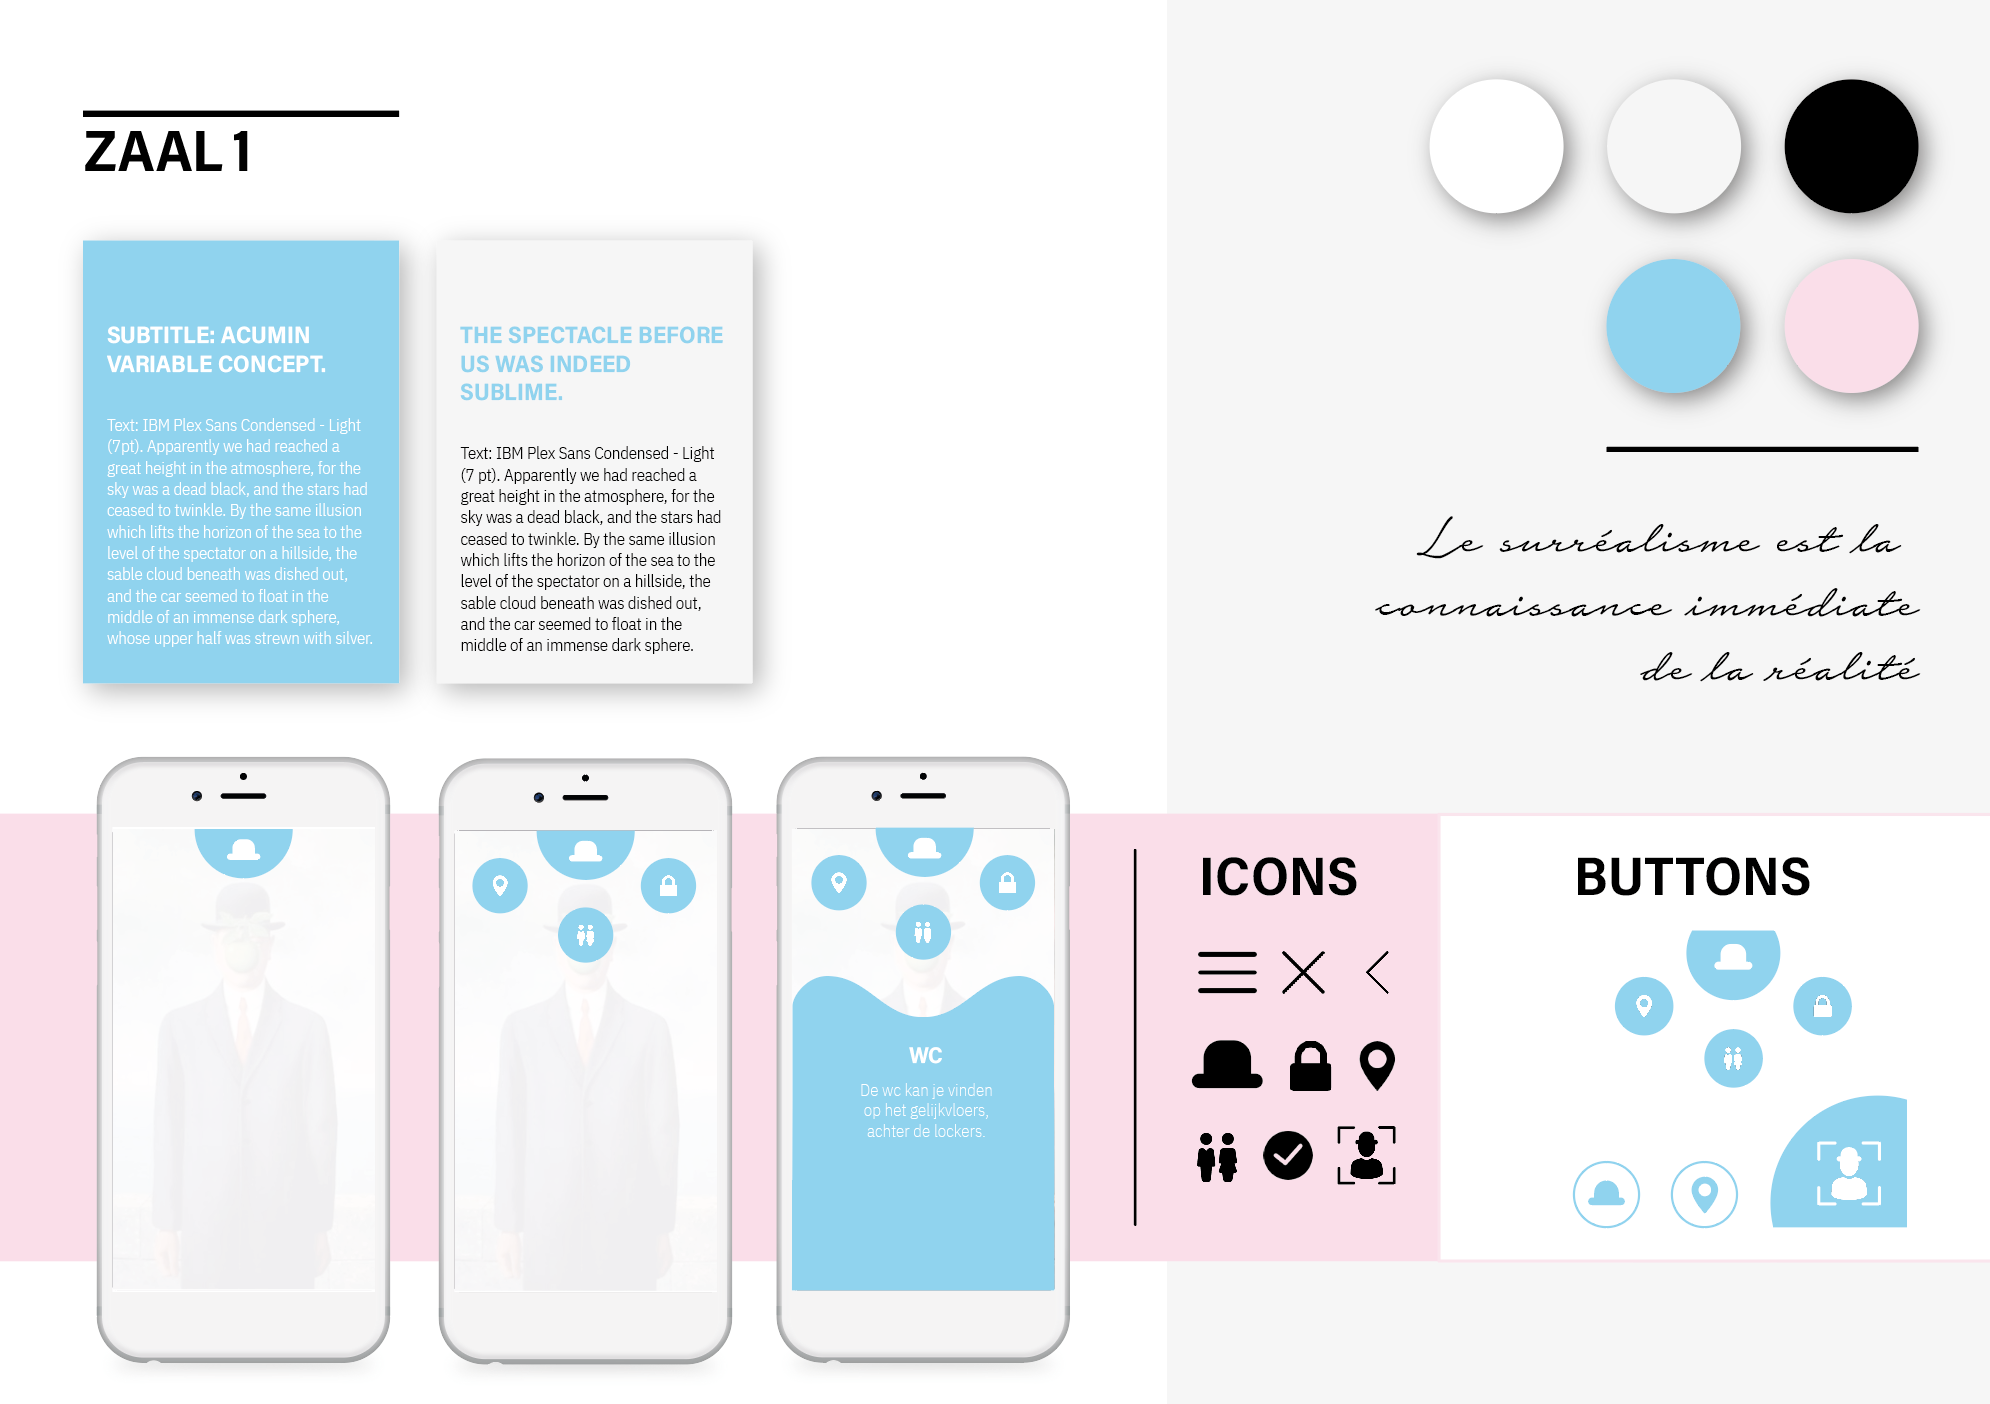
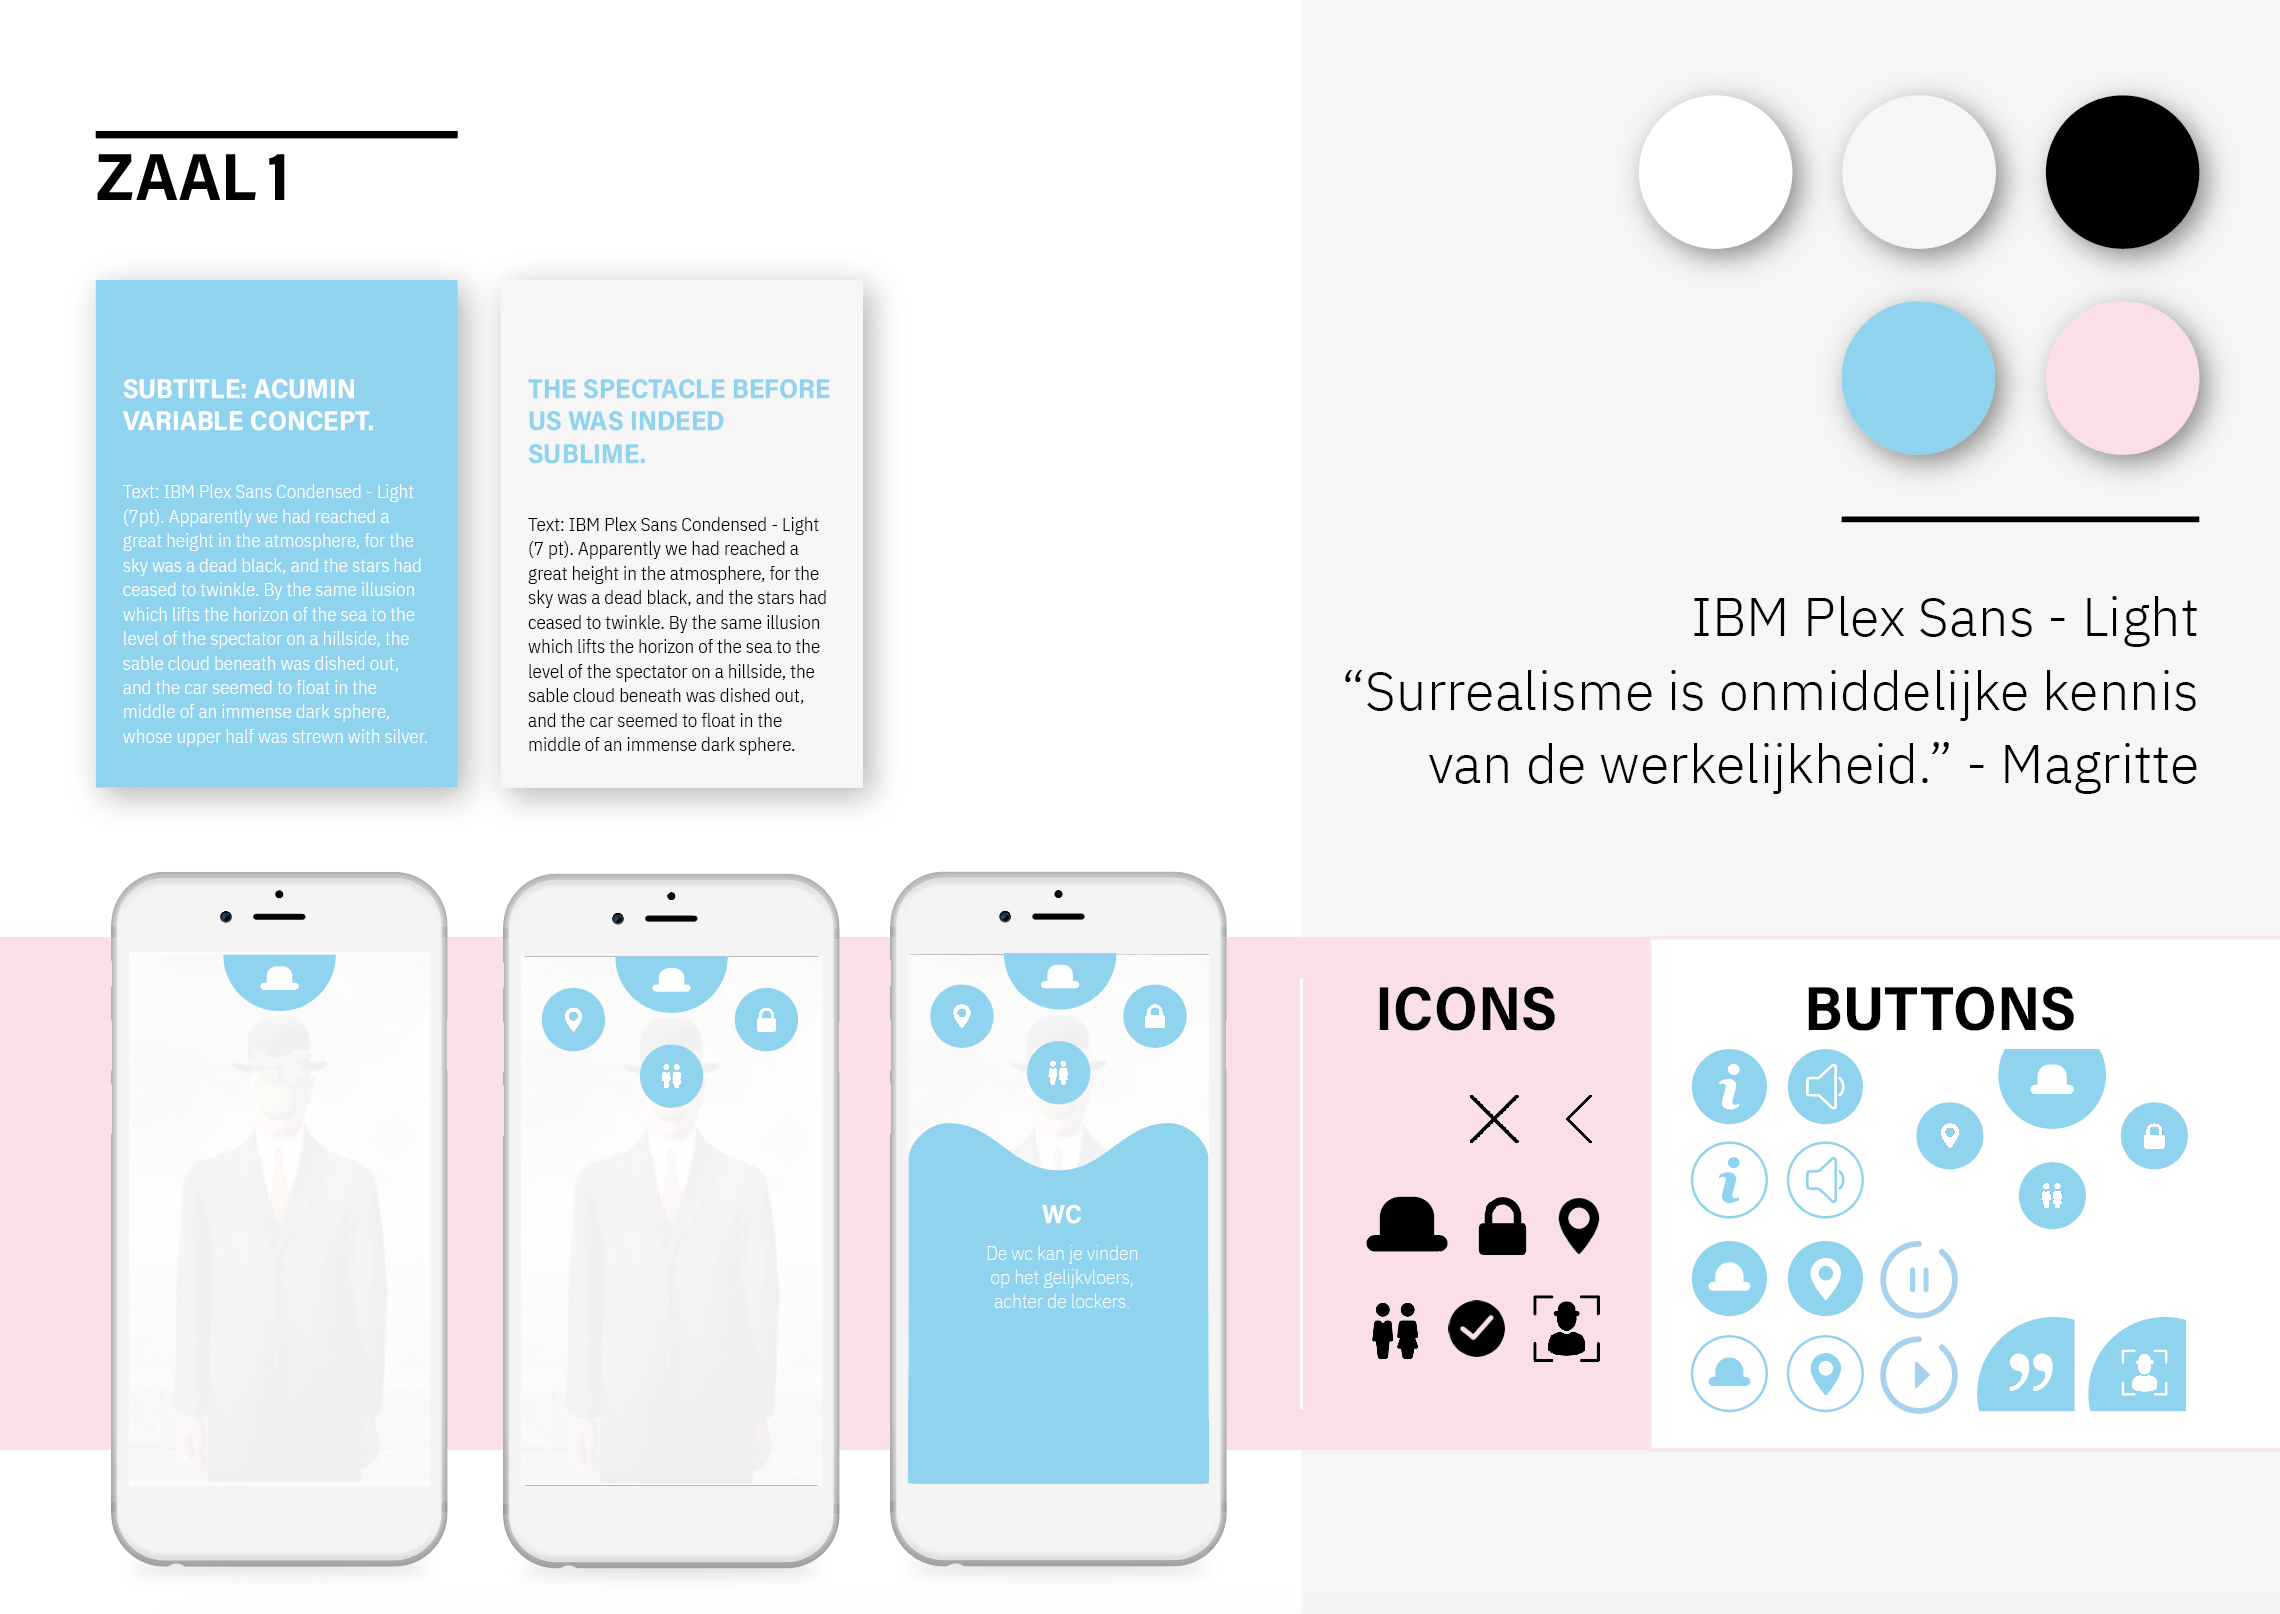
finale

diff --git a/docs/_sass/ui-style-guide/_main.scss b/docs/_sass/ui-style-guide/_main.scss
@@ -1,0 +1,169 @@
+body {
+    font-family: IBM Plex Sans, sans serif;
+    color: #a4d2ee;
+}
+
+/* Typografie */
+.IBM {
+    font-family: IBM Plex Sans;
+    font-size: 30px;
+    font-weight: bold;
+    color: white;
+}
+
+.IBM-bold {
+    font-family: IBM Plex Sans;
+    font-weight: bold;
+}
+
+.IBM-regular {
+    font-family: IBM Plex Sans;
+}
+.IBM-light {
+    font-family: IBM Plex Sans;
+    font-weight: lighter;
+}
+/* tekst kleur */
+.t-blauw {
+    color: #a4d2ee;
+}
+.t-wit {
+    color: white;
+}
+
+/* gekleurde div */
+.blauw {
+    background-color: #a4d2ee;
+    padding: 20px;
+    width: 25%;
+    box-shadow: 5px 5px 20px 0px grey;
+    float: left;
+}
+
+.grijs {
+    background-color: #f6f6f6;
+    padding: 20px;
+    width: 25%;
+    box-shadow: 5px 5px 20px 0px grey;
+    float: left;
+    margin-right: 20px;
+}
+/* kleuren cirkels */
+.c-blauw {
+    height: 200px;
+    width: 200px;
+    background-color: #a4d2ee;
+    border-radius: 100%;
+    box-shadow: 5px 5px 20px 0px grey;
+    float: left;
+    margin-right: 20px;
+}
+
+.c-grijs {
+    height: 200px;
+    width: 200px;
+    background-color: #f6f6f6;
+    border-radius: 100%;
+    box-shadow: 5px 5px 20px 0px grey;
+    float: left;
+    margin-right: 20px;
+}
+
+.c-roze {
+    height: 200px;
+    width: 200px;
+    background-color: #f3dde9;
+    border-radius: 100%;
+    box-shadow: 5px 5px 20px 0px grey;
+    float: left;
+    margin-right: 20px;
+}
+
+.c-wit {
+    height: 200px;
+    width: 200px;
+    background-color: white;
+    border-radius: 100%;
+    box-shadow: 5px 5px 20px 0px grey;
+    float: left;
+    margin-right: 20px;
+}
+
+.c-zwart {
+    height: 200px;
+    width: 200px;
+    background-color: black;
+    border-radius: 100%;
+    box-shadow: 5px 5px 20px 0px grey;
+    float: left;
+    margin-right: 20px;
+}
+
+/* Marges */
+.ml {
+    margin-left: 50px;
+    margin-right: 20px;
+}
+
+/* Knoppen */
+.button {
+    width: 80px;
+    height: 80px;
+    margin: none;
+}
+
+.button-2 {
+    width: 80px;
+    height: 80px;
+    margin-right: 20px;
+}
+
+/* Formulieren */
+.form {
+    width: 500px;
+    margin-left: 50px;
+}
+input {
+    font-family: IBM Plex Sans, sans serif;
+    font-size: 20px;
+    width: 500px;
+    height: 50px;
+    padding: 0px 15px 0px 15px; 
+    background: white;
+    outline: none;
+    color: #a4d2ee;
+    border: solid 3px #a4d2ee;
+    margin-top: 10px;
+}
+input:hover {
+    background: #a4d2ee;
+    color: white;
+}
+textarea {
+    font-size: 20px;
+    width: 500px;
+    max-width: 500px;
+    height: 110px;
+    max-height: 600px;
+    padding: 15px;
+    background: transparent;
+    color: #a4d2ee;
+    margin-top: 10px;
+    border: solid 3px #a4d2ee;
+}
+textarea:hover {
+    background: #a4d2ee;
+    color: white;
+}
+.submit {
+    font-family: IBM Plex Sans, sans serif;
+    font-weight: bold;
+    font-size: 20px;
+    width: 200px;
+    margin: 0px 0px 0px 0px;
+    background-color: #a4d2ee;
+    color: white;
+}
+.submit:hover {
+    color: white;
+}

diff --git a/docs/_sass/_bootstrap-variables.scss b/docs/_sass/_bootstrap-variables.scss
@@ -17,8 +17,7 @@ $primary: $cyan;
 //
 // Font, line-height, and color for body text, headings, and more.
 
+@import url('https://fonts.googleapis.com/css?family=IBM+Plex+Sans');
 
-@import url('https://fonts.googleapis.com/css?family=Oswald');
-@import url('https://fonts.googleapis.com/css?family=Oswald|Roboto');
 
-$font-family-base: Roboto, sans-serif;
+$font-family-base: 'IBM Plex Sans', sans-serif;

diff --git a/docs/_sass/production/_main.scss b/docs/_sass/production/_main.scss
@@ -14,3 +14,6 @@
     width: 100px;
     border-radius: 10%;
 }
+
+
+

diff --git a/docs/pages/3__design/5-1-0__ui-style-guide__typografie.md b/docs/pages/3__design/5-1-0__ui-style-guide__typografie.md
@@ -6,3 +6,25 @@ published: true
 # ─────────────────────
 title: Typografie
 ---
+
+
+
+<div class="grijs ml">
+<p class="ml IBM t-blauw">TITLE: IBM PLEX SANS</p>
+<p class="ml IBM-bold">SUBTITLE: Bold</p>
+<p class="ml IBM-regular">Medium</p>
+<p class="ml IBM-light">
+Light voor doorlopende tekst:
+Apparently we had reached a great height in the atmosphere, for the sky was a dead black, and the stars had ceased to twinkle. By the same illusion which lifts the horizon of the sea to the level of the spectator on a hillside, the sable cloud beneath was dished out, and the car seemed to float in the middle of an immense dark sphere, whose upper half was strewn with silver.
+</p>
+</div>
+
+<div class="blauw">
+<p class="ml IBM t-wit">TITLE: IBM PLEX SANS</p>
+<p class="ml IBM-bold t-wit">SUBTITLE: Bold</p>
+<p class="ml IBM-regular t-wit">Medium</p>
+<p class="ml IBM-light t-wit">
+Light voor doorlopende tekst:
+Apparently we had reached a great height in the atmosphere, for the sky was a dead black, and the stars had ceased to twinkle. By the same illusion which lifts the horizon of the sea to the level of the spectator on a hillside, the sable cloud beneath was dished out, and the car seemed to float in the middle of an immense dark sphere, whose upper half was strewn with silver.
+</p>
+</div>

diff --git a/docs/pages/3__design/5-1-0__ui-style-guide__knoppen.md b/docs/pages/3__design/5-1-0__ui-style-guide__knoppen.md
@@ -1,0 +1,24 @@
+---
+layout   : ui-style-guide
+permalink: design/ui-style-guide/knoppen/
+published: true
+# Custom Page Variables
+# ─────────────────────
+title: knoppen
+---
+
+
+![info]({{ 'assets/img/icon-info.png' | relative_url }}){:.button .ml}
+![info-2]({{ 'assets/img/icon-info-2.png/' | relative_url }}){:.button-2}
+![sound]({{ 'assets/img/icon-sound.png' | relative_url }}){:.button}
+![sound-2]({{ 'assets/img/icon-sound-2.png/' | relative_url }}){:.button-2}
+![hat]({{ 'assets/img/icon-hat.png' | relative_url }}){:.button}
+![hat-2]({{ 'assets/img/icon-hat-2.png/' | relative_url }}){:.button-2}
+![location]({{ 'assets/img/icon-loc.png' | relative_url }}){:.button}
+![location-2]({{ 'assets/img/icon-loc-2.png/' | relative_url }}){:.button-2}
+
+![toilet]({{ 'assets/img/icon-toilet.png' | relative_url }}){:.button .ml}
+![lock]({{ 'assets/img/icon-lock.png' | relative_url }}){:.button}
+![scan]({{ 'assets/img/icon-scan.png' | relative_url }}){:.button}
+![quote]({{ 'assets/img/icon-quote.png' | relative_url }}){:.button}
+![play]({{ 'assets/img/icon-play.gif' | relative_url }}){:.button}

diff --git a/docs/pages/2__define/1-0-0__planning.md b/docs/pages/2__define/1-0-0__planning.md
@@ -11,4 +11,8 @@ Op vrijdag 23 februari hebben we het museum van Magritte bezocht.
 
 Van planning is er bij ons verder niet veel sprake geweest. Wij hadden samen 1 duidelijke afspraak: op donderdag hebben we New Media Design en na de lessen bleven we langer op school om hieraan verder te werken. Dit is onze vaste dag wanneer we hieraan werken. We kunnen dan thuis zelf nog zien of we tijd over hebben om aan het project verder te werken. Soms maken we afspraken zoals voor de visual designs: We maken elks 1 visual design tegen volgende les en de 3de maken we samen in de klas.
 
+In het weekend werkten we elks appart aan het project. We overlegden wel altijd alles via messenger.
+
 Voor de rest: gewoon ons best doen om ons aan de planning te houden zoals deze op de syllabus werd voorgesteld. Eerlijk toegegeven hadden we het daar vaak moeilijk mee. Maar wij zijn er zeker van dat dit niet enkel bij ons het geval was.
+
+17 mei hebben we een volledige dag samen gewerkt om weer op schema te zitten. We merken allebei dat samen werken beter vlot. Elks apart thuis werken gaat minder goed.

diff --git a/docs/pages/3__design/5-1-0__ui-style-guide__formulieren.md b/docs/pages/3__design/5-1-0__ui-style-guide__formulieren.md
@@ -1,0 +1,16 @@
+---
+layout   : ui-style-guide
+permalink: design/ui-style-guide/formulieren/
+published: true
+# Custom Page Variables
+# ─────────────────────
+title: Formulieren
+---
+
+
+<form class="form">
+		  <input type="text" placeholder="Uw e-mail">
+		  <input type="text" placeholder="Uw naam">
+		  <textarea type="text" placeholder="Typ hier uw boodschap"></textarea>
+  <input class="submit" type="submit" value="VERZENDEN">
+</form>

diff --git a/docs/pages/3__design/5-1-0__ui-style-guide__kleuren.md b/docs/pages/3__design/5-1-0__ui-style-guide__kleuren.md
@@ -1,0 +1,14 @@
+---
+layout   : ui-style-guide
+permalink: design/ui-style-guide/kleuren/
+published: true
+# Custom Page Variables
+# ─────────────────────
+title: Kleuren
+---
+
+<div class="ml c-blauw"> </div>
+<div class="c-grijs"> </div>
+<div class="c-roze"> </div>
+<div class="c-wit"> </div>
+<div class="c-zwart"> </div>

diff --git a/docs/pages/3__design/3-3-0__smartphone-app__screen-designs.md b/docs/pages/3__design/3-3-0__smartphone-app__screen-designs.md
@@ -6,3 +6,7 @@ published: true
 # ─────────────────────
 title: Screen Designs
 ---
+
+<a href="https://xd.adobe.com/view/e6a9fe6e-04c7-49c2-75b9-702f4edb265c-9098/" > SMARTPHONE </a>
+
+![screen design]({{ 'assets/img/screen-phone.png' | relative_url }}){:.ideaboard-img}

diff --git a/docs/pages/3__design/2-3-0__smartwatch-app__screen-designs.md b/docs/pages/3__design/2-3-0__smartwatch-app__screen-designs.md
@@ -6,3 +6,6 @@ published: true
 # ─────────────────────
 title: Screen Designs
 ---
+<a href="https://xd.adobe.com/view/7c54299e-9f19-4167-7675-3b23eb252e58-0a65/" > SMARTWATCH </a>
+
+![screen design]({{ 'assets/img/screen-watch.png' | relative_url }}){:.ideaboard-img}

diff --git a/docs/pages/3__design/4-3-0__website__screen-designs.md b/docs/pages/3__design/4-3-0__website__screen-designs.md
@@ -6,3 +6,9 @@ published: true
 # ─────────────────────
 title: Screen Designs
 ---
+
+
+
+<a href="https://xd.adobe.com/view/c32daee1-53ad-4c19-52b6-9eb939324319-b51c/" > WEBSITE </a>
+
+![screendesign]({{ 'assets/img/screen-web.png' | relative_url }}){:.ideaboard-img}

diff --git a/docs/pages/3__design/4-2-0__website__wireframes.md b/docs/pages/3__design/4-2-0__website__wireframes.md
@@ -6,3 +6,7 @@ published: true
 # ─────────────────────
 title: Wireframes
 ---
+
+![wireframe]({{ 'assets/img/wireframe-web-home.png' | relative_url }}){:.ideaboard-img}
+
+![wireframe]({{ 'assets/img/wireframe-web-contact.png' | relative_url }}){:.ideaboard-img}
